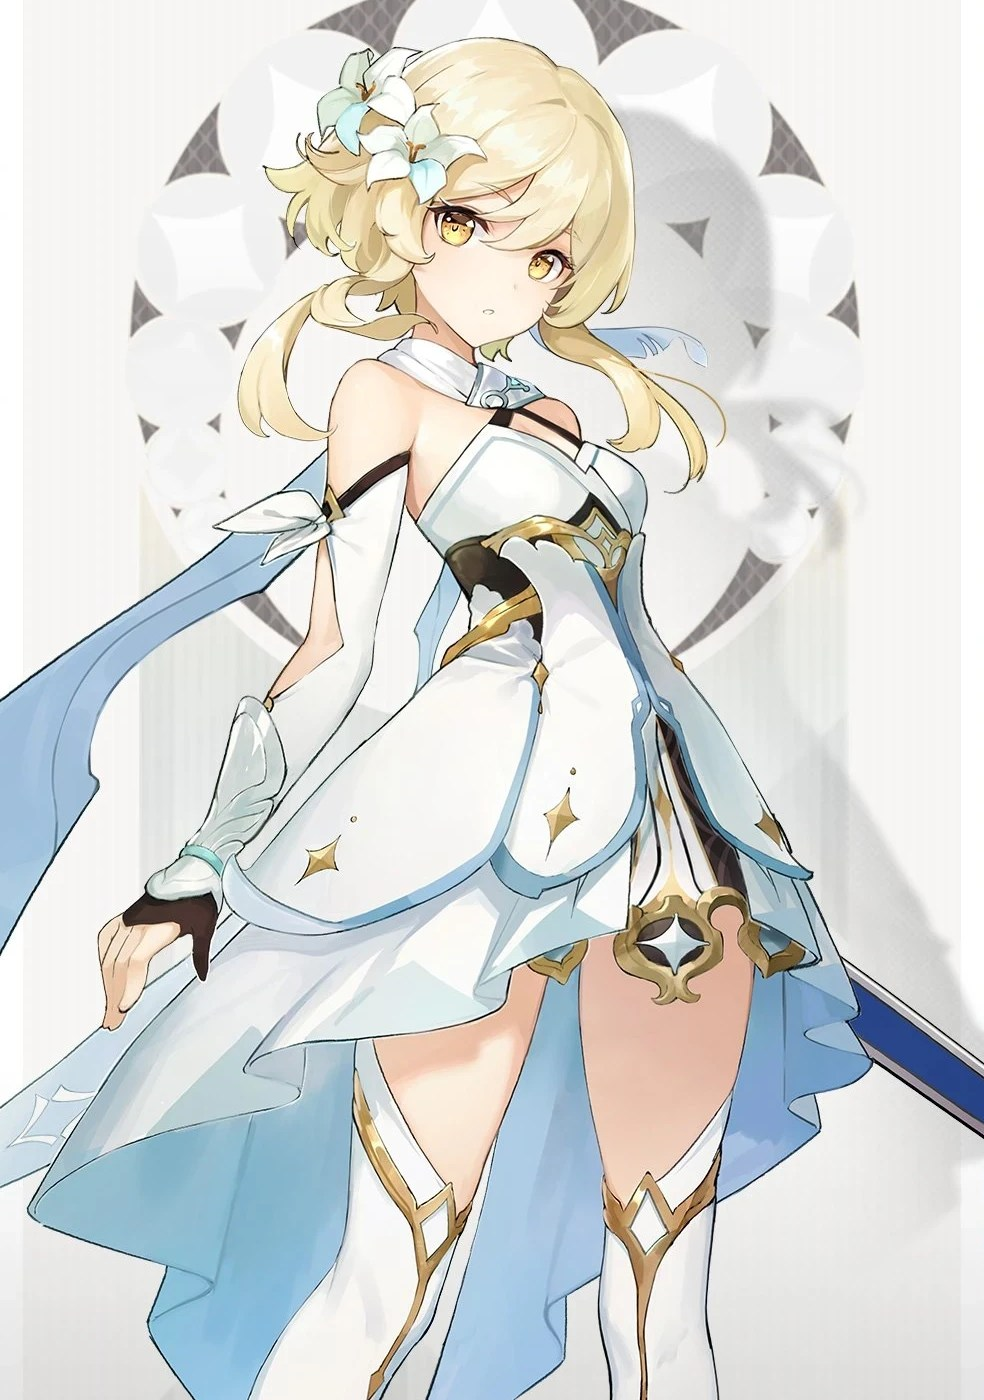
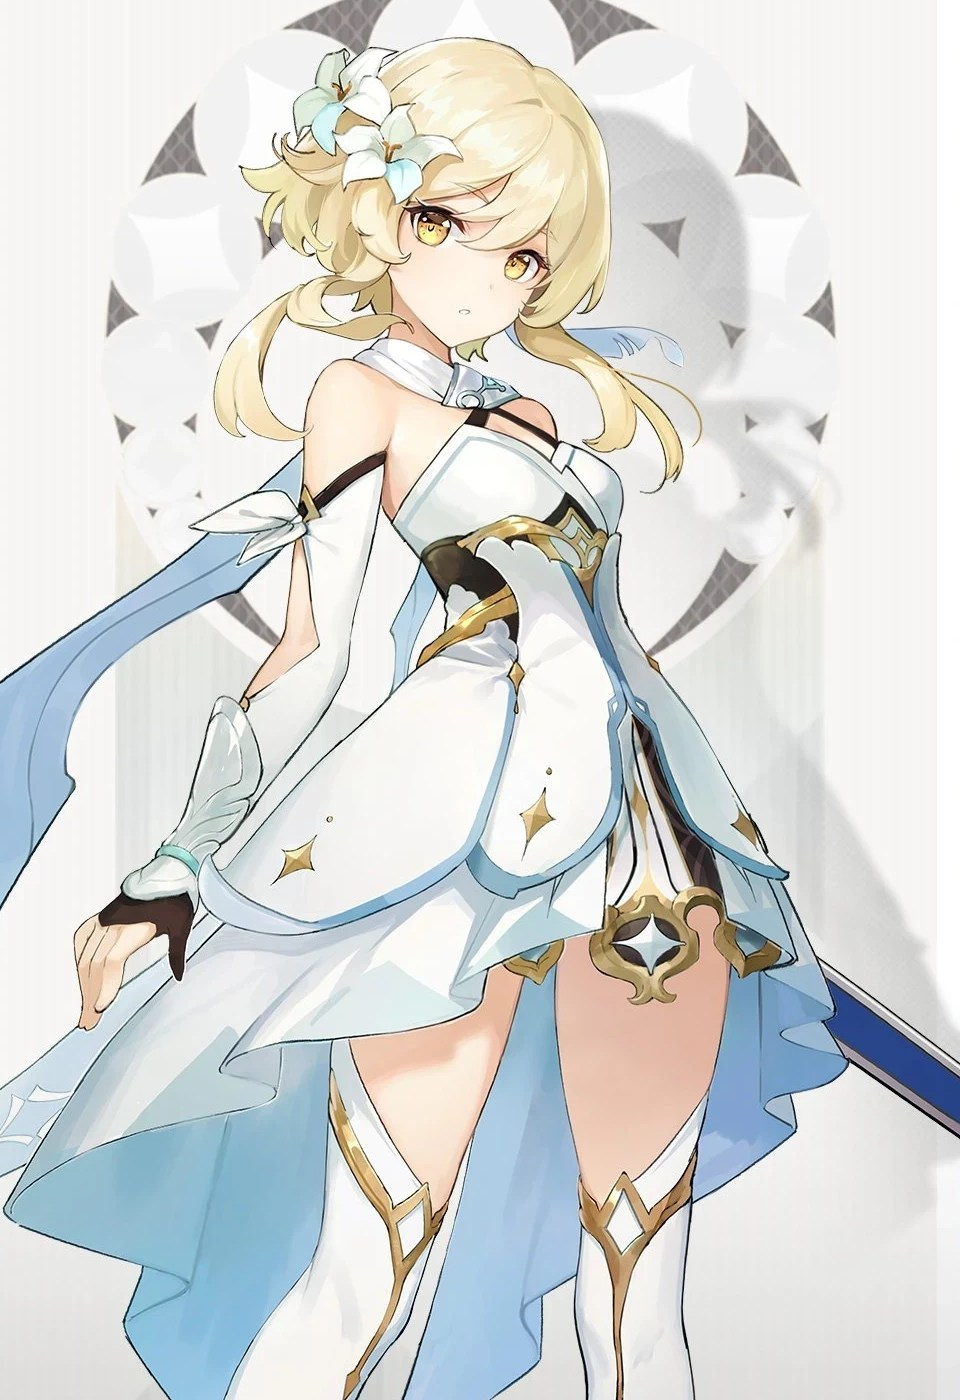
Hero: extend art's light background leftward with a long gradient; heading 'Visual effects'

diff --git a/index.html b/index.html
@@ -40,16 +40,19 @@
 
   .hero { position: relative; margin-top: 24px; min-height: clamp(380px, 40vw, 560px); border-radius: 18px; overflow: hidden; display: flex; align-items: center;
           background: #0f121a; border: 1px solid var(--line); }
-  .hero .art { position: absolute; right: 0; top: 0; height: 100%; aspect-ratio: 984 / 1400; max-width: 62%; }
-  .hero .art img { width: 100%; height: 100%; object-fit: cover; object-position: center top; display: block; }
-  .hero .art::after { content: ""; position: absolute; inset: 0 0 0 -2px; background: linear-gradient(to right, #0f121a 0%, #0f121a 5%, rgba(15,18,26,.8) 16%, rgba(15,18,26,0) 50%), linear-gradient(to top, #0f121a 0%, rgba(15,18,26,0) 22%); }
+  /* 일러스트 왼쪽의 흰 배경을 왼쪽으로 넓게 이어 붙이고(넓힌 영역 = 그라데이션), 천천히 어두운 배경으로 */
+  .hero .art { position: absolute; right: 0; top: 0; height: 100%; aspect-ratio: 1633 / 1400; max-width: 80%;
+               background: linear-gradient(to right, #0f121a 0%, #1d212b 8%, #3c414d 16%, #6f7480 24%, #a9adb5 31%, #dcdbda 37%, #f8f6f5 41.2%); }
+  .hero .art img { position: absolute; right: 0; top: 0; height: 100%; width: 58.8%; object-fit: cover; object-position: center top; display: block; }
+  .hero .art::after { content: ""; position: absolute; inset: 0; background: linear-gradient(to top, #0f121a 0%, rgba(15,18,26,0) 24%); }
   .hero .txt { position: relative; z-index: 1; padding: 40px clamp(20px, 5vw, 64px); max-width: 640px; }
   .hero h1 { font-size: clamp(36px, 6vw, 72px); margin: 0 0 14px; font-weight: 800; letter-spacing: .02em; }
   .hero h1 em { font-style: normal; color: var(--accent); }
   .hero p { color: #c4c9d6; font-size: clamp(15px, 1.7vw, 18px); margin: 0; line-height: 1.75; text-shadow: 0 1px 12px rgba(0,0,0,.6); }
   .hero .credit { position: absolute; right: 12px; bottom: 8px; z-index: 1; font-size: 11px; color: rgba(232,234,240,.55); }
   @media (max-width: 720px) {
-    .hero .art { max-width: none; width: 100%; aspect-ratio: auto; opacity: .35; }
+    .hero .art { max-width: none; width: 100%; aspect-ratio: auto; opacity: .35; background: none; }
+    .hero .art img { width: 100%; }
   }
 
   /* 비교 슬라이더 */
@@ -108,7 +111,7 @@
 
 <main class="wrap">
   <section class="hero">
-    <div class="art"><img src="images/hero_lumine.jpg?v=2" alt="Lumine"></div>
+    <div class="art"><img src="images/hero_lumine.jpg?v=3" alt="Lumine"></div>
     <div class="txt">
       <h1>Lumi<em>Shade</em></h1>
     <p data-ko="LumiShade는 원신을 위한 ReShade 셰이더 팩입니다.<br>장면마다 빛과 깊이, 공기를 읽어 게임 본연의 그림체는 지키면서 입체감과 분위기를 더합니다."
@@ -136,7 +139,7 @@
   </section>
 
   <section class="feat">
-    <h2 data-ko="무엇이 달라지나" data-en="What it does">무엇이 달라지나</h2>
+    <h2 data-ko="시각 효과" data-en="Visual effects">시각 효과</h2>
     <div class="grid">
       <div class="card"><h3 data-ko="형태와 깊이" data-en="Form &amp; depth">형태와 깊이</h3>
         <p data-ko="깊이 버퍼로 면의 방향과 가림을 읽어, 툰 렌더링의 평평한 면에 부드러운 형태 음영과 접촉 그림자를 더합니다." data-en="Reads surface direction and occlusion from the depth buffer, adding soft form shading and contact shadows to flat toon surfaces.">깊이 버퍼로 면의 방향과 가림을 읽어, 툰 렌더링의 평평한 면에 부드러운 형태 음영과 접촉 그림자를 더합니다.</p></div>
